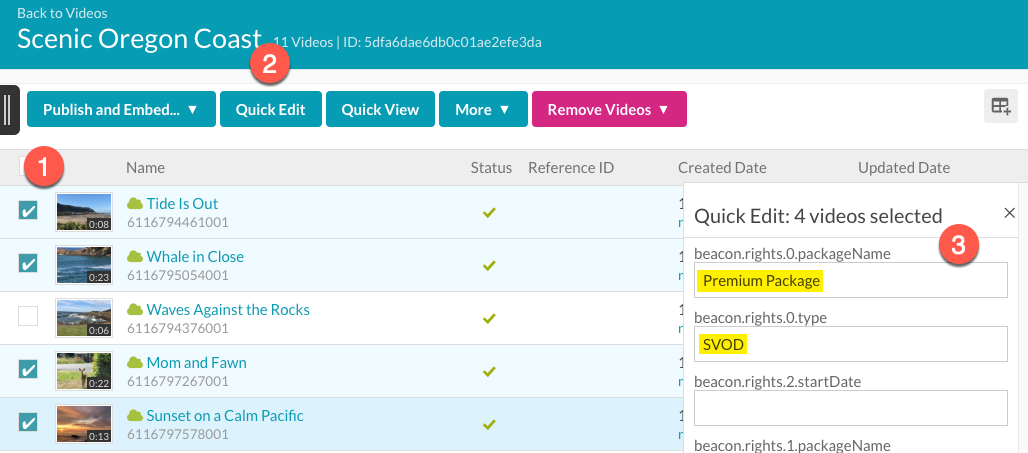
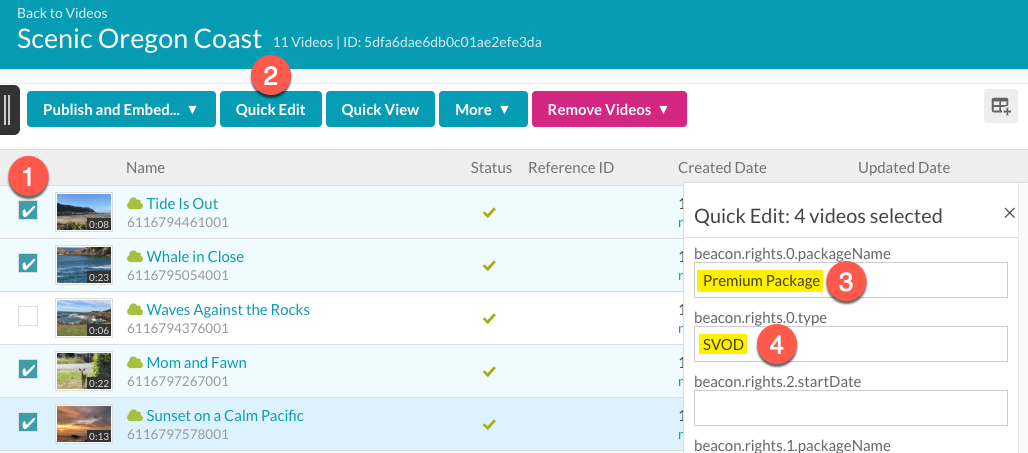
WIP use sales package

diff --git a/_site/using-brightcove-beacon/use-sales-package.html b/_site/using-brightcove-beacon/use-sales-package.html
@@ -396,34 +396,32 @@ function doGTranslate(lang_pair) {if(lang_pair.value)lang_pair=lang_pair.value;i
     </h2>
     <p>
       To assign multiple videos to a package you must use Video Cloud Studio.
-      Perform the following steps:
+      The following screenshot is helpful when performing the steps:
+      <figure class="bcls-figure">
+        <img
+          class="bcls-image"
+          src="/assets/images/using-bcb/use-sales-package/multiple-video-edit.png"
+          alt="index of rights fields"
+        />
+      </figure>
     </p>
-    <ol class="bcls-tasklist">
+    <ol class="bcls-tasklist-restart">
       <li>
         In Studio, navigate to the
         <strong>Media</strong>
-        module.
+        module and check the checkbox in from of each video you wish to add to
+        the package.
       </li>
       <li>
-        Click on the video's title you are adding to the package to see that
-        video's properties.
-      </li>
-      <li>
-        Scroll down until you see the
-        <strong>Custom Fields</strong>
-        section on the right hand side and click the
-        <strong>Edit</strong>
+        Click the
+        <strong>Quick Edit</strong>
         button.
-        <figure class="bcls-figure">
-          <img
-            class="bcls-image"
-            src="/assets/images/using-bcb/use-sales-package/single-video-edit-fields.png"
-            alt="index of rights fields"
-          />
-        </figure>
       </li>
       <li>
-        Place the name of the sales package created in Brightcove Beacon in the
+        The
+        <strong>Quick Edit</strong>
+        section appears on the right side of the screen, and there you can place
+        the name of the sales package created in Brightcove Beacon in the
         <code>beacon.rights.&lt;counter&gt;.packageName</code>
         field.
       </li>
@@ -433,16 +431,11 @@ function doGTranslate(lang_pair) {if(lang_pair.value)lang_pair=lang_pair.value;i
         to
         <strong>SVOD</strong>
         .
-        <figure class="bcls-figure">
-          <img
-            class="bcls-image"
-            src="/assets/images/using-bcb/use-sales-package/custom-fields.png"
-            alt="index of rights fields"
-          />
-        </figure>
       </li>
       <li>
-        Scroll to the bottom of the list of custom fields and click the
+        At the bottom of the
+        <strong>Quick Edit</strong>
+        section, click the
         <strong>Save</strong>
         button.
       </li>

diff --git a/using-brightcove-beacon/use-sales-package.html b/using-brightcove-beacon/use-sales-package.html
@@ -147,34 +147,32 @@ parent: Using Brightcove Beacon
     </h2>
     <p>
       To assign multiple videos to a package you must use Video Cloud Studio.
-      Perform the following steps:
+      The following screenshot is helpful when performing the steps:
+      <figure class="bcls-figure">
+        <img
+          class="bcls-image"
+          src="/assets/images/using-bcb/use-sales-package/multiple-video-edit.png"
+          alt="index of rights fields"
+        />
+      </figure>
     </p>
-    <ol class="bcls-tasklist">
+    <ol class="bcls-tasklist-restart">
       <li>
         In Studio, navigate to the
         <strong>Media</strong>
-        module.
+        module and check the checkbox in from of each video you wish to add to
+        the package.
       </li>
       <li>
-        Click on the video's title you are adding to the package to see that
-        video's properties.
-      </li>
-      <li>
-        Scroll down until you see the
-        <strong>Custom Fields</strong>
-        section on the right hand side and click the
-        <strong>Edit</strong>
+        Click the
+        <strong>Quick Edit</strong>
         button.
-        <figure class="bcls-figure">
-          <img
-            class="bcls-image"
-            src="/assets/images/using-bcb/use-sales-package/single-video-edit-fields.png"
-            alt="index of rights fields"
-          />
-        </figure>
       </li>
       <li>
-        Place the name of the sales package created in Brightcove Beacon in the
+        The
+        <strong>Quick Edit</strong>
+        section appears on the right side of the screen, and there you can place
+        the name of the sales package created in Brightcove Beacon in the
         <code>beacon.rights.&lt;counter&gt;.packageName</code>
         field.
       </li>
@@ -184,16 +182,11 @@ parent: Using Brightcove Beacon
         to
         <strong>SVOD</strong>
         .
-        <figure class="bcls-figure">
-          <img
-            class="bcls-image"
-            src="/assets/images/using-bcb/use-sales-package/custom-fields.png"
-            alt="index of rights fields"
-          />
-        </figure>
       </li>
       <li>
-        Scroll to the bottom of the list of custom fields and click the
+        At the bottom of the
+        <strong>Quick Edit</strong>
+        section, click the
         <strong>Save</strong>
         button.
       </li>
